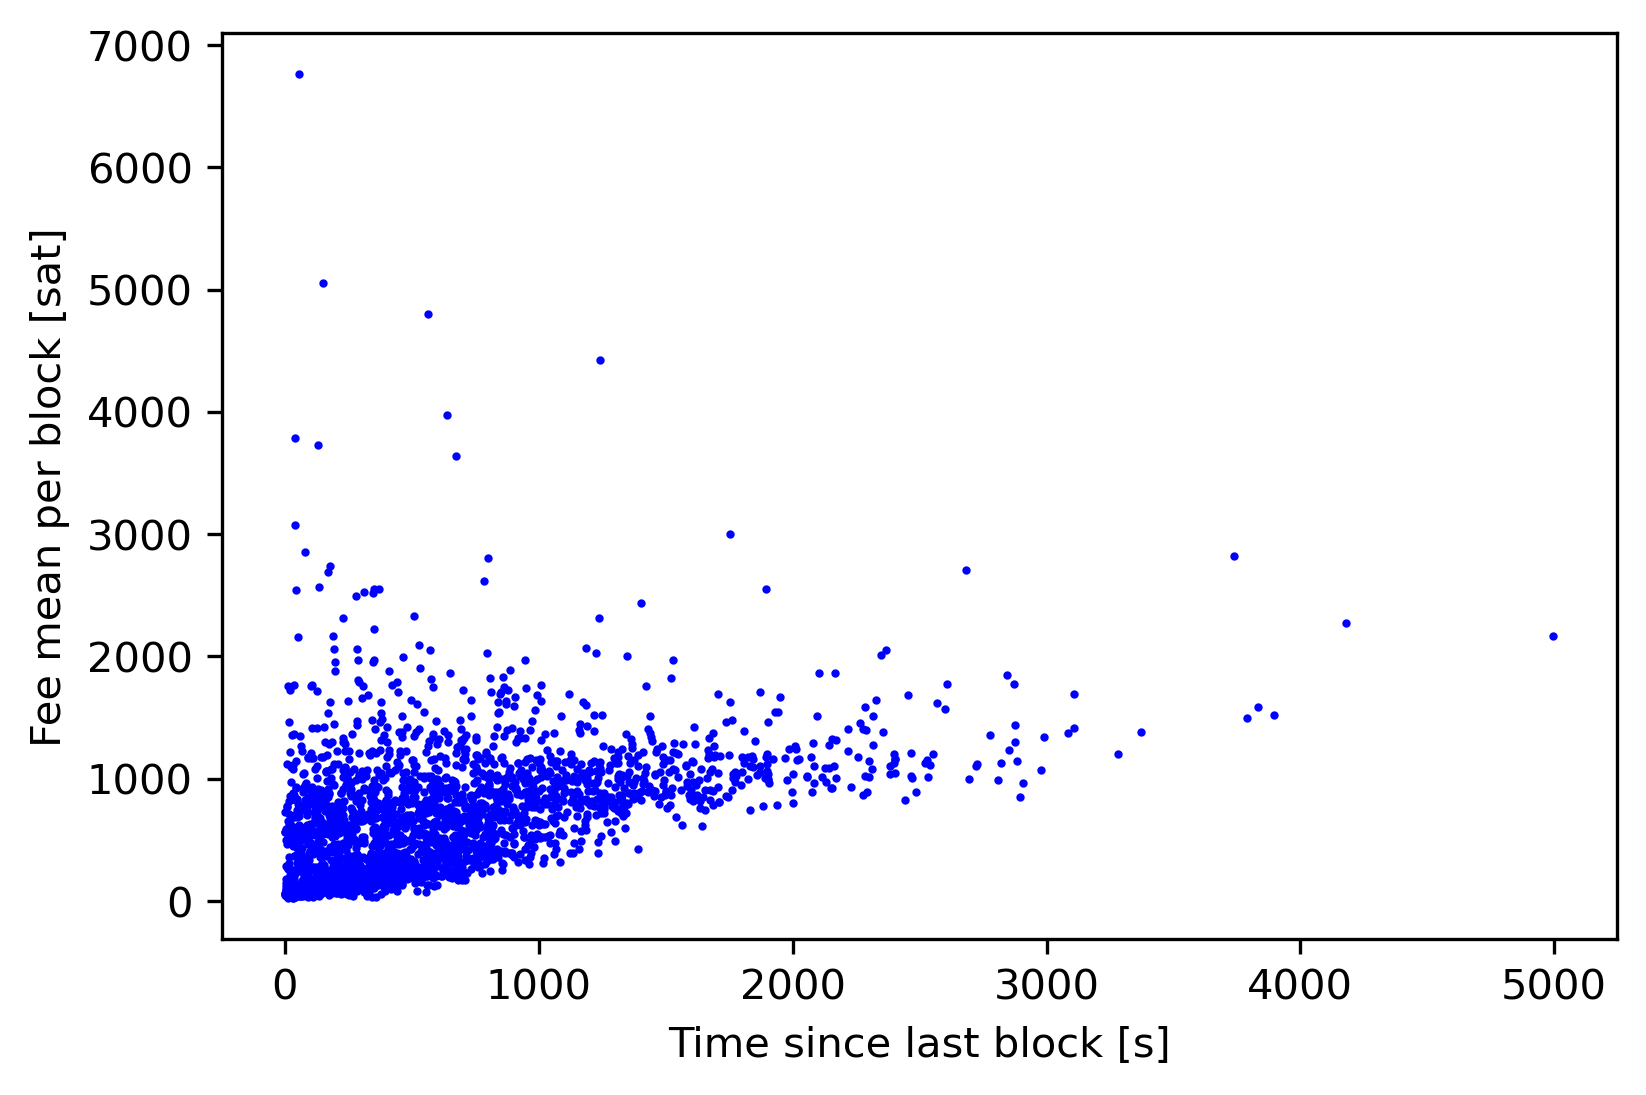
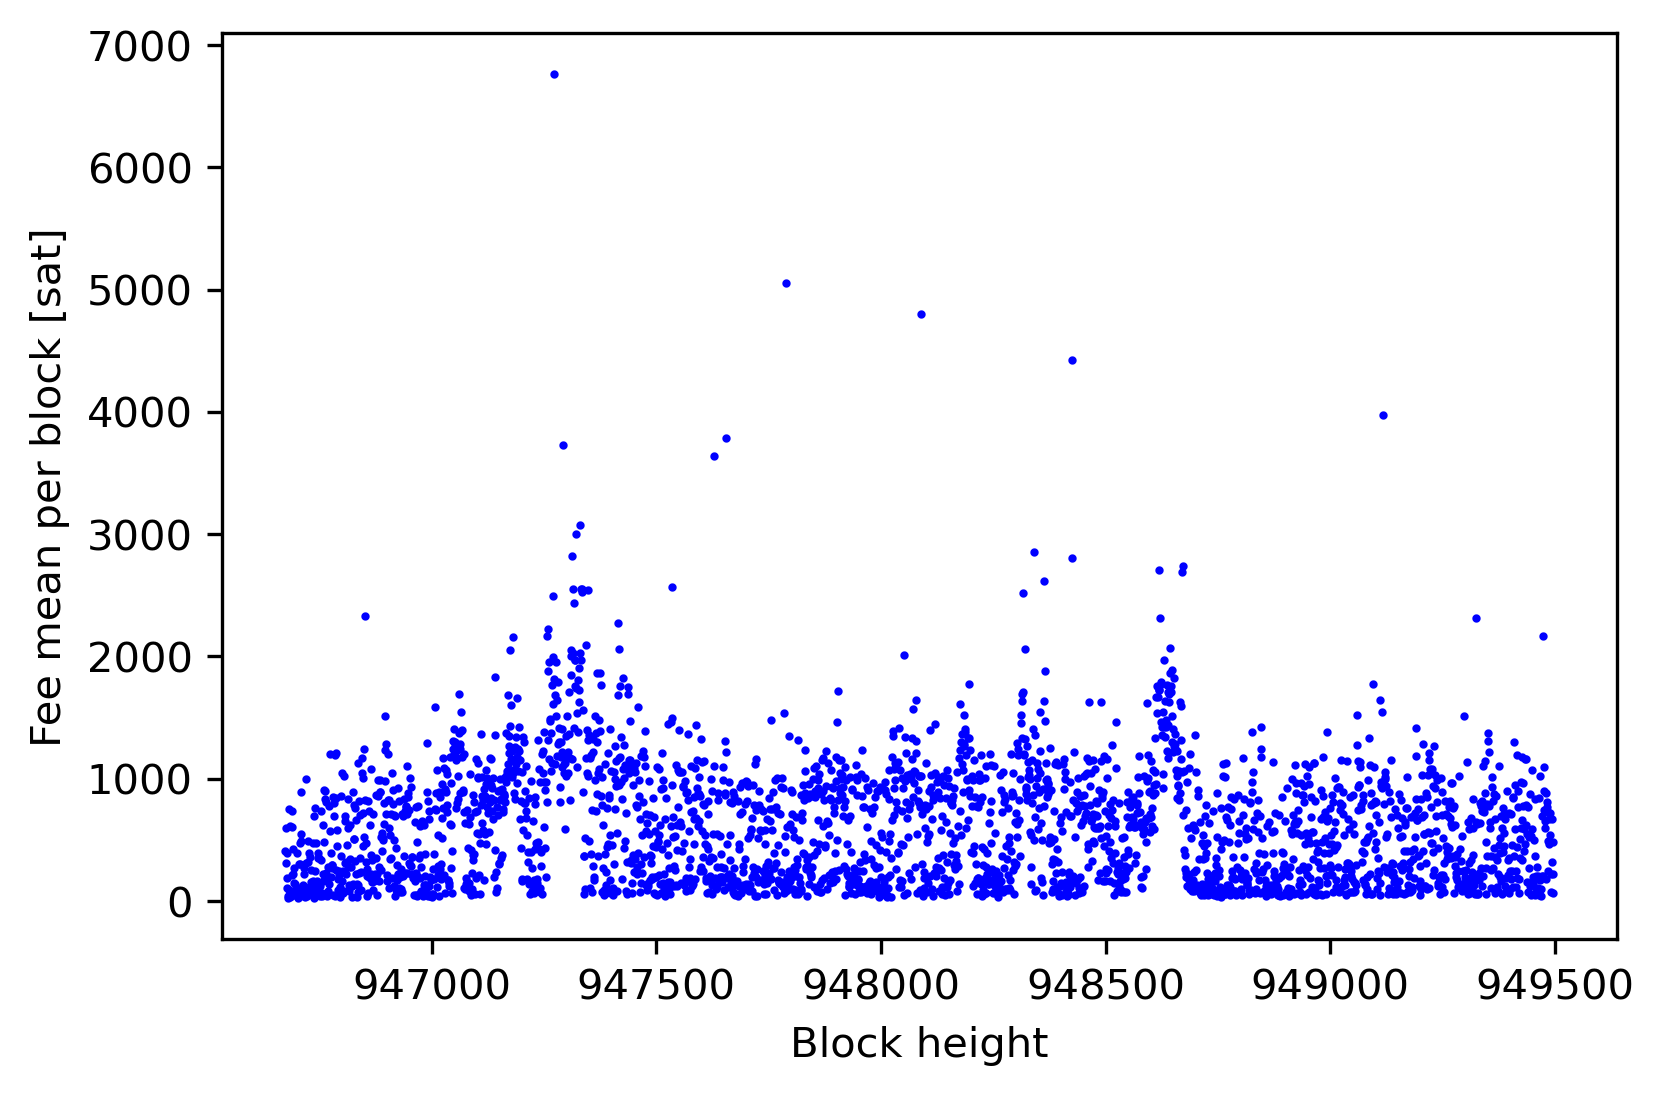
Analysis update

diff --git a/analysis.py b/analysis.py
@@ -210,9 +210,13 @@ create_plot(df["height"], vsize_mb_median, "Block height","Median of virtual siz
 
 
 
-create_plot(df["dt_sec"], fee_mean_block,  "Time since last block [s]", "Fee mean per block [sat]", "plots/dt_fee_mean.png", color="blue", s=1)
-create_plot(df["dt_sec"], fee_rate_mean_block,  "Time since last block [s]", "Fee rate mean per block [sat]", "plots/dt_fee_rate_mean.png", color="blue", s=1)
-create_plot(df["dt_sec"], fee_rate_median_block,  "Time since last block [s]", "Fee rate median per block [sat]", "plots/dt_fee_median.png", color="blue", s=1)
+create_plot(df["dt_sec"], fee_mean_block,  "Time since last block [s]", "Fee mean per block [sat]", "plots/height_fee_mean.png", color="blue", s=1)
+create_plot(df["dt_sec"], fee_rate_mean_block,  "Time since last block [s]", "Fee rate mean per block [sat]", "plots/height_fee_rate_mean.png", color="blue", s=1)
+create_plot(df["dt_sec"], fee_rate_median_block,  "Time since last block [s]", "Fee rate median per block [sat]", "plots/height_fee_median.png", color="blue", s=1)
+
+create_plot(df["height"], fee_mean_block,  "Block height", "Fee mean per block [sat]", "plots/dt_fee_mean.png", color="blue", s=1)
+create_plot(df["height"], fee_rate_mean_block,  "Block height", "Fee rate mean per block [sat]", "plots/dt_fee_rate_mean.png", color="blue", s=1)
+create_plot(df["height"], fee_rate_median_block,  "Block height", "Fee rate median per block [sat]", "plots/dt_fee_median.png", color="blue", s=1)
 
 
 create_plot(df["height"], df["saturation"], "Block height", "Size saturation of the block", "plots/size_saturation.png", color="blue", s=1)